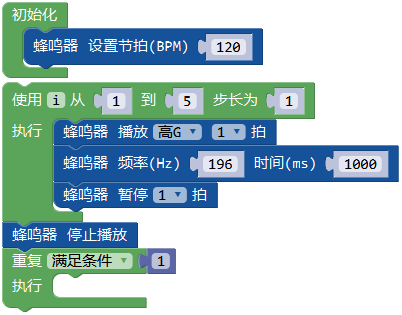
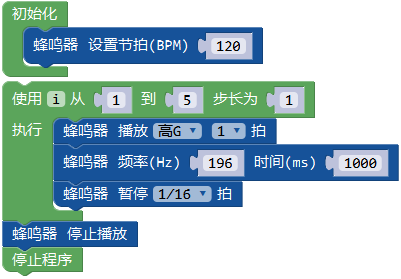
add tankbase example

diff --git a/MoonBot/MoonBot_Hardware/MoonBot_Hardware_motor.md b/MoonBot/MoonBot_Hardware/MoonBot_Hardware_motor.md
@@ -4,7 +4,8 @@
 
 ![](./images/render_motor.png)
 
-电机模块内含减速电机和测速编码器。
+电机模块内含减速电机和测速编码器。外部有一个主动轮和一个被动轮，主动轮连接减速电机，被动轮则由螺丝和轴承连接。
+轮子外接拼装式的履带，用两个电机模块即可搭出一个履带车底盘。
 
 ## 参数
 
@@ -28,4 +29,23 @@
 
 ## 使用示例
 
-x
+### 底盘控制
+
+在车形、人形、机械臂等形态下，均可直接控制电机底盘前进、后退、转弯等。通过以下程序测试底盘的运行功能。
+
+硬件连接：将电机和测速器接到主控对应接口，电机M1对应测速器P4，电机M2对应测速器P6。电机为大电流设备，主控必须连接电池模块供电来驱动电机。主控可同时连接USB和电池，此时使用电池供电。
+
+程序介绍：初始化设定底盘的方向、校正直行偏移、距离和转弯半径。底盘可设定前进、后退、左转、右转，输入距离/角度和电机转速。最后停止程序防止循环运行。
+
+![](./images/Mixly_example_motor_tankbase.png)
+
+### 电机独立控制
+
+除了集成的底盘控制方式外，也可直接控制电机1和2。
+
+硬件连接：同上
+
+程序介绍：初始化打开串口，用来接收测速器数据。直接写入值通过PWM控制电机的电压，让底盘前进2秒。
+然后写入带编码器测速的电机速度值，让底盘原地旋转2秒，通过串口返回测速值。通过写入转速0关闭电机，停止运行。
+
+![](./images/Mixly_example_motor_single.png)

diff --git a/MoonBot/MoonBot_Hardware/index.rst b/MoonBot/MoonBot_Hardware/index.rst
@@ -7,8 +7,7 @@ MoonBot Kit 硬件指南
 ===============================
 
 MoonBot Kit目前共有9种硬件模块。可以通过米思奇或Arduino对模块单独操控，或者将模块拼搭成具体的形态后设计交互程序。
-以下模块介绍中会单独介绍每个模块的引脚定义和简单的米思奇程序，帮助用户快速上手。软件方面的详细教程请参考下文
-
+以下模块介绍中会单独介绍每个模块的引脚定义和简单的米思奇程序，帮助用户快速上手。软件方面的详细教程请参考
 `MoonBot Kit Mixly教程 <https://morpx-docs.readthedocs.io/en/latest/MoonBot/MoonBot_Mixly/index.html>`_
 
 .. toctree::

diff --git a/MoonBot/MoonBot_Hardware/MoonBot_Hardware_controller.md b/MoonBot/MoonBot_Hardware/MoonBot_Hardware_controller.md
@@ -37,7 +37,7 @@
 程序介绍：该程序介绍主控蜂鸣器的编程方法，用两种方式让蜂鸣器发出警报声。
 
 设置蜂鸣器的节拍为BPM 120，即每1拍为0.5秒。蜂鸣器可以直接播放已定义的音调，或者直接播放频率，注意播放频率时需要加上延时，否则会被跳过。
-循环播放5次高低警报音后停止播放，结尾添加死循环防止再次播放。
+循环播放5次高低警报音后停止播放，结尾添加停止程序块防止循环播放。
 
 ![](./images/Mixly_example_controller_buzzer.png)
 
